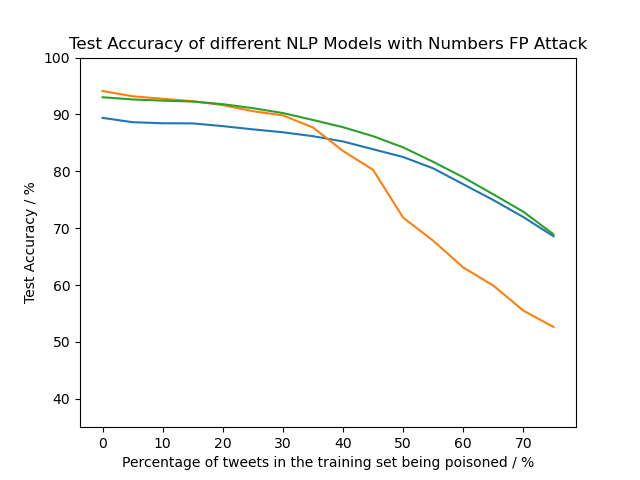
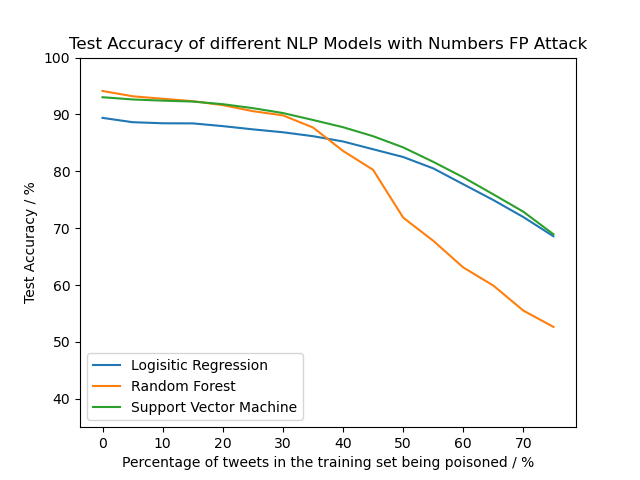
adding feature graphs

Changed region(s): [[0.125, 0.75, 0.4375, 0.8125], [0.125, 0.8438, 0.4688, 0.875]]

diff --git a/annotator_bias.py b/annotator_bias.py
@@ -69,7 +69,7 @@ svm_accuracy = []
 
 # Determining if N should be run with full values or inputted value
 if args.N == False:
-    N_list = list(range(0,100, 20))
+    N_list = list(range(0,100, 5))
 else:
     N_list = args.N
 
@@ -90,7 +90,6 @@ for j in N_list:
 
 # Plot the results and save fig 
 ax = plt.gca()
-ax.set_ylim([25, 100])
 plt.plot(N_list, lr_accuracy, label = 'Logistic Regression')
 plt.plot(N_list,rf_accuracy, label = 'Random Forest')
 plt.plot(N_list, svm_accuracy,label = 'Support Vector Machine')
